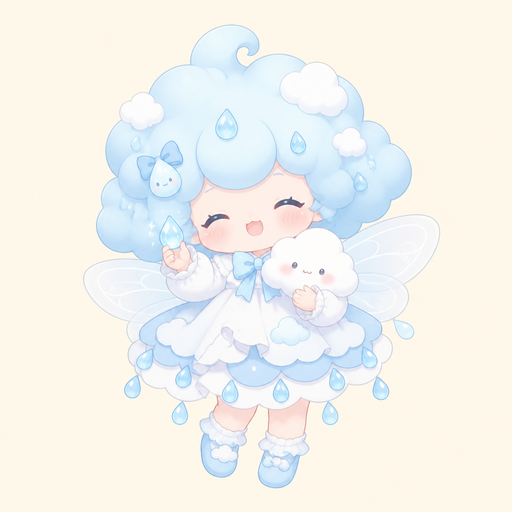
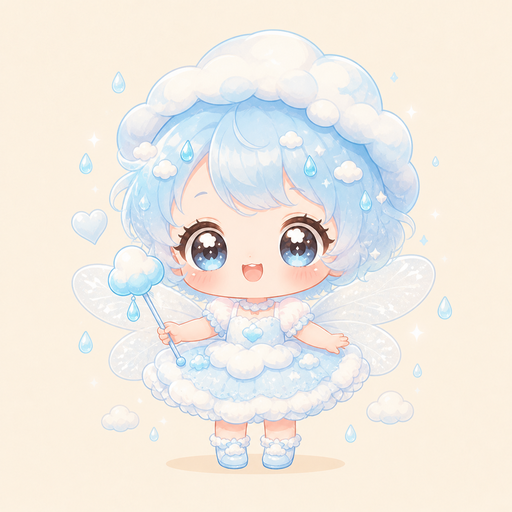
도감 요정 8종 새 그림으로 교체 (티니핑·산리오 감성 오리지널)
다인이 도감 캐릭터를 큰 눈·2등신 파스텔 치비 스타일 오리지널로 다시 그려 8종 모두 교체. app.js 자산 경로에 캐시 무효화 ?v=20261116 추가, static-check는 쿼리 붙은 경로도 검사하도록 보완.

diff --git a/app.js b/app.js
@@ -84,7 +84,7 @@
       id: "f_star",
       name: "별별 요정",
       eng: "Star",
-      img: "assets/fairy_star.png",
+      img: "assets/fairy_star.png?v=20261116",
       desc: "반짝이는 별가루를 뿌리는 첫 친구예요. 다인이가 처음 도장을 받으면 나타나요.",
       personality: "씩씩하고 밝음",
       need: 1,
@@ -94,7 +94,7 @@
       id: "f_flower",
       name: "꽃송이 요정",
       eng: "Flower",
-      img: "assets/fairy_flower.png",
+      img: "assets/fairy_flower.png?v=20261116",
       desc: "데이지 화관을 쓴 소심한 친구. 열심히 노력하는 마음을 알아봐요.",
       personality: "수줍음 · 다정함",
       need: 3,
@@ -104,7 +104,7 @@
       id: "f_berry",
       name: "딸기맛 요정",
       eng: "Berry",
-      img: "assets/fairy_berry.png",
+      img: "assets/fairy_berry.png?v=20261116",
       desc: "새콤달콤한 딸기 냄새가 나요. 완성을 좋아하는 친구예요.",
       personality: "호기심 많음",
       need: 6,
@@ -114,7 +114,7 @@
       id: "f_cloud",
       name: "구름솜 요정",
       eng: "Cloud",
-      img: "assets/fairy_cloud.png",
+      img: "assets/fairy_cloud.png?v=20261116",
       desc: "폭신한 구름을 키우는 친구. 포근한 마음으로 하루를 마무리하게 도와줘요.",
       personality: "느긋함 · 포근함",
       need: 10,
@@ -124,7 +124,7 @@
       id: "f_moon",
       name: "자장가 요정",
       eng: "Moon",
-      img: "assets/fairy_moon.png",
+      img: "assets/fairy_moon.png?v=20261116",
       desc: "달베개를 안고 잠자리를 지켜 주는 친구. 밤에 쌓인 기록도 소중하다고 말해요.",
       personality: "차분함 · 사랑스러움",
       need: 15,
@@ -134,7 +134,7 @@
       id: "f_forest",
       name: "도토리 요정",
       eng: "Forest",
-      img: "assets/fairy_forest.png",
+      img: "assets/fairy_forest.png?v=20261116",
       desc: "도토리 모자를 쓴 호기심 왕. 매일 조금씩 쌓는 습관을 응원해요.",
       personality: "호기심 · 성실함",
       need: 21,
@@ -144,7 +144,7 @@
       id: "f_ocean",
       name: "물방울 요정",
       eng: "Ocean",
-      img: "assets/fairy_ocean.png",
+      img: "assets/fairy_ocean.png?v=20261116",
       desc: "반짝이는 물방울을 타고 다니는 친구. 마음이 넓고 깊어요.",
       personality: "차분함 · 넓은 마음",
       need: 28,
@@ -154,7 +154,7 @@
       id: "f_rainbow",
       name: "무지개 요정",
       eng: "Rainbow",
-      img: "assets/fairy_rainbow.png",
+      img: "assets/fairy_rainbow.png?v=20261116",
       desc: "도장판을 가득 채운 우리 가족에게 축하를 전하려 온 손님이에요.",
       personality: "명랑 · 축하 담당",
       need: 36,
@@ -166,11 +166,11 @@
     { id: "st_daini",  label: "다인이",   img: "assets/avatar_daini.png" },
     { id: "st_mom",    label: "엄마",     img: "assets/avatar_mom.png" },
     { id: "st_dad",    label: "아빠",     img: "assets/avatar_dad.png" },
-    { id: "st_star",   label: "별별",     img: "assets/fairy_star.png" },
-    { id: "st_flower", label: "꽃송이",   img: "assets/fairy_flower.png" },
-    { id: "st_cloud",  label: "구름솜",   img: "assets/fairy_cloud.png" },
-    { id: "st_berry",  label: "딸기맛",   img: "assets/fairy_berry.png" },
-    { id: "st_rainbow", label: "무지개",  img: "assets/fairy_rainbow.png" }
+    { id: "st_star",   label: "별별",     img: "assets/fairy_star.png?v=20261116" },
+    { id: "st_flower", label: "꽃송이",   img: "assets/fairy_flower.png?v=20261116" },
+    { id: "st_cloud",  label: "구름솜",   img: "assets/fairy_cloud.png?v=20261116" },
+    { id: "st_berry",  label: "딸기맛",   img: "assets/fairy_berry.png?v=20261116" },
+    { id: "st_rainbow", label: "무지개",  img: "assets/fairy_rainbow.png?v=20261116" }
   ];
 
   var DOW_KO = ["일", "월", "화", "수", "목", "금", "토"];
